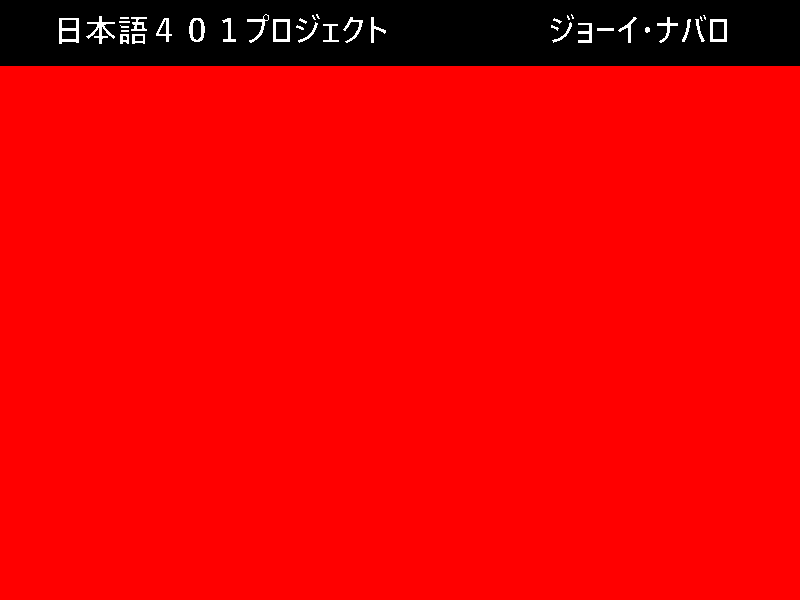
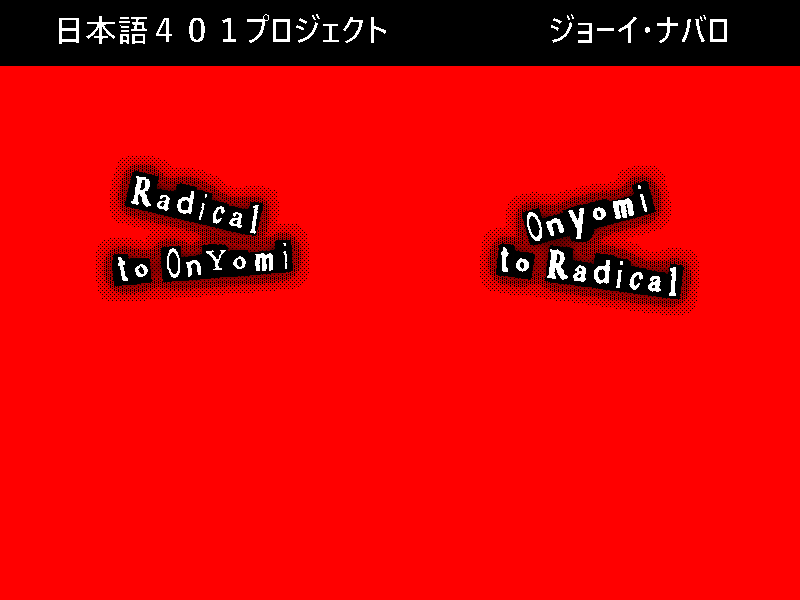
Updated title screen

Changed region(s): [[0.125, 0.27, 0.4062, 0.51], [0.5938, 0.27, 0.875, 0.54]]

diff --git a/constant.py b/constant.py
@@ -4,7 +4,7 @@ import os
 ## Constants
 ## Constant values used in other files
 
-TITLE = "Reading Kanji with Radicals" ## Window caption
+TITLE = "Read Kanji with Radicals" ## Window caption
 SIZE  = W,H = 800,600      ## Screen size
 FPS   = 60                 ## Screen refresh rate
 FONTSIZE = 108
@@ -12,7 +12,7 @@ BLACK = (0,0,0)
 RED   = (255,0,0)
 WHITE = (255,255,255)
 ANGLE = 2.5
-SCALE = 1
+SCALE = 1.5
 
 ## GUI button placement
 KANJI_VERT = [H//4 for n in range(2)]

diff --git a/utility.py b/utility.py
@@ -14,7 +14,7 @@ def smooth_rotate(img, angle):
     ## Rotates with antialiasing
     x,y = img.get_size()
     x,y = int(round(x*0.875)), int(round(y*0.875))
-    img = pygame.transform.smoothscale(img, (x,y))
+    img = pygame.transform.scale(img, (x,y))
     img = pygame.transform.rotate(img, angle)
     
     return img
